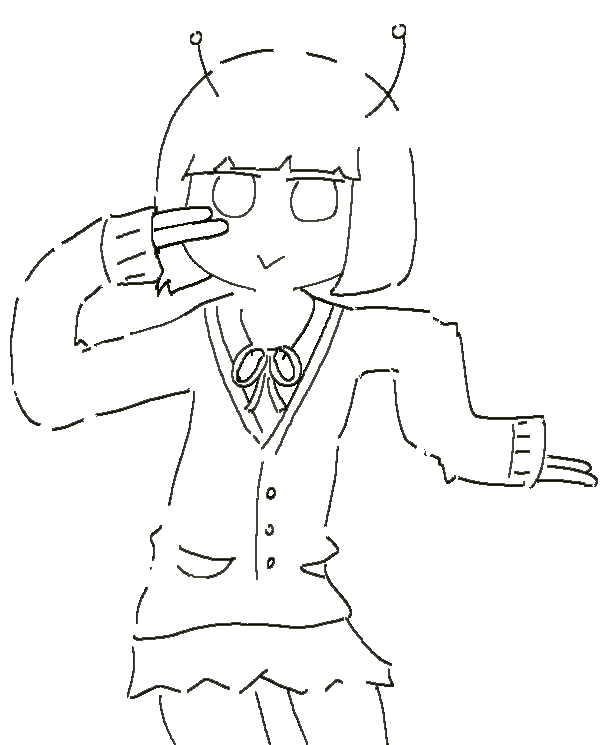
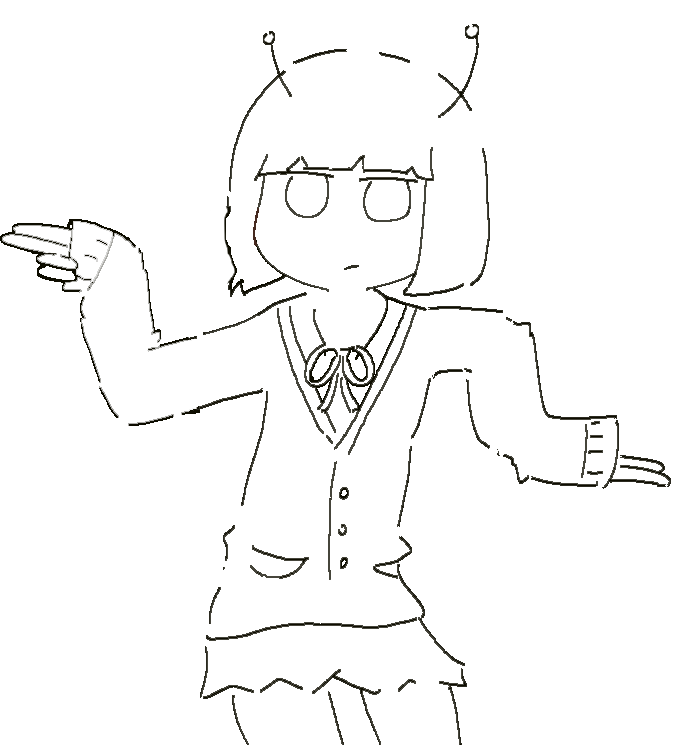
Add files via upload
안경 쓰고 벗기 모션 추가!

diff --git a/Easter_Eggs/Perfect Life/Perfect Life.html b/Easter_Eggs/Perfect Life/Perfect Life.html
@@ -48,11 +48,79 @@
 
 
 	<script>
-		function changeBg(bimg)
+		var toggle	= 0;
+
+		function changeBgL()
 		{
 			var body=document.getElementsByTagName("body");
-			body[0].style.backgroundImage="url(" + bimg + "), url('Letter.png')";
+
+			if(toggle==0)
+			{
+			body[0].style.backgroundImage="url(" + 'LG.png' + "), url('Letter.png')";
+			}
+
+			else if(toggle==1)
+			{
+			body[0].style.backgroundImage="url(" + 'L.png' + "), url('Letter.png')"
+			}
 		}
+
+
+		function changeBgR()
+		{
+			var body=document.getElementsByTagName("body");
+		
+			if(toggle==0)
+			{
+			body[0].style.backgroundImage="url(" + 'RG.png' + "), url('Letter.png')";
+			}
+			else if(toggle==1)
+			{
+			body[0].style.backgroundImage="url(" + 'R.png' + "), url('Letter.png')"
+			}
+		}
+
+		function GLASS_MODEL()
+		{
+			var body=document.getElementsByTagName("body");
+
+			if(toggle==0) // 안경 쓰고 있음.
+			{
+
+				body[0].style.backgroundImage="url(" + 'OGL.png' + "), url('Letter.png')"; // 안경 벗기.
+				toggle=1;
+			}
+
+			else if(toggle==1) //  안경 벗고 있음.
+			{
+	
+				body[0].style.backgroundImage="url(" + 'WGL.png' + "), url('Letter.png')"; // 안경 쓰기.
+				toggle=0;
+			}
+
+		}
+
+
+		function GLASS_MODER()
+		{
+			var body=document.getElementsByTagName("body");
+
+			if(toggle==0) // 안경 쓰고 있음.
+			{
+	
+				body[0].style.backgroundImage="url(" + 'OGR.png' + "), url('Letter.png')"; // 안경 벗기.
+				toggle=1;
+			}
+
+			else if(toggle==1) //  안경 벗고 있음.
+			{
+
+				body[0].style.backgroundImage="url(" + 'WGR.png' + "), url('Letter.png')"; // 안경 쓰기.
+				toggle=0;
+			}
+
+		}
+
 
 	</script>
 
@@ -60,9 +128,9 @@
 
 </head>
 <body>
-	<div class="left" onmouseover="changeBg('L.png')"></div>
+	<div class="left" onmouseover="changeBgL()" onmousedown="GLASS_MODEL()" ></div>
 
-	<div class="right" onmouseover="changeBg('R.png')"></div>
+	<div class="right" onmouseover="changeBgR()" onmousedown="GLASS_MODER()" ></div>
 
 
 	<div align="center">
